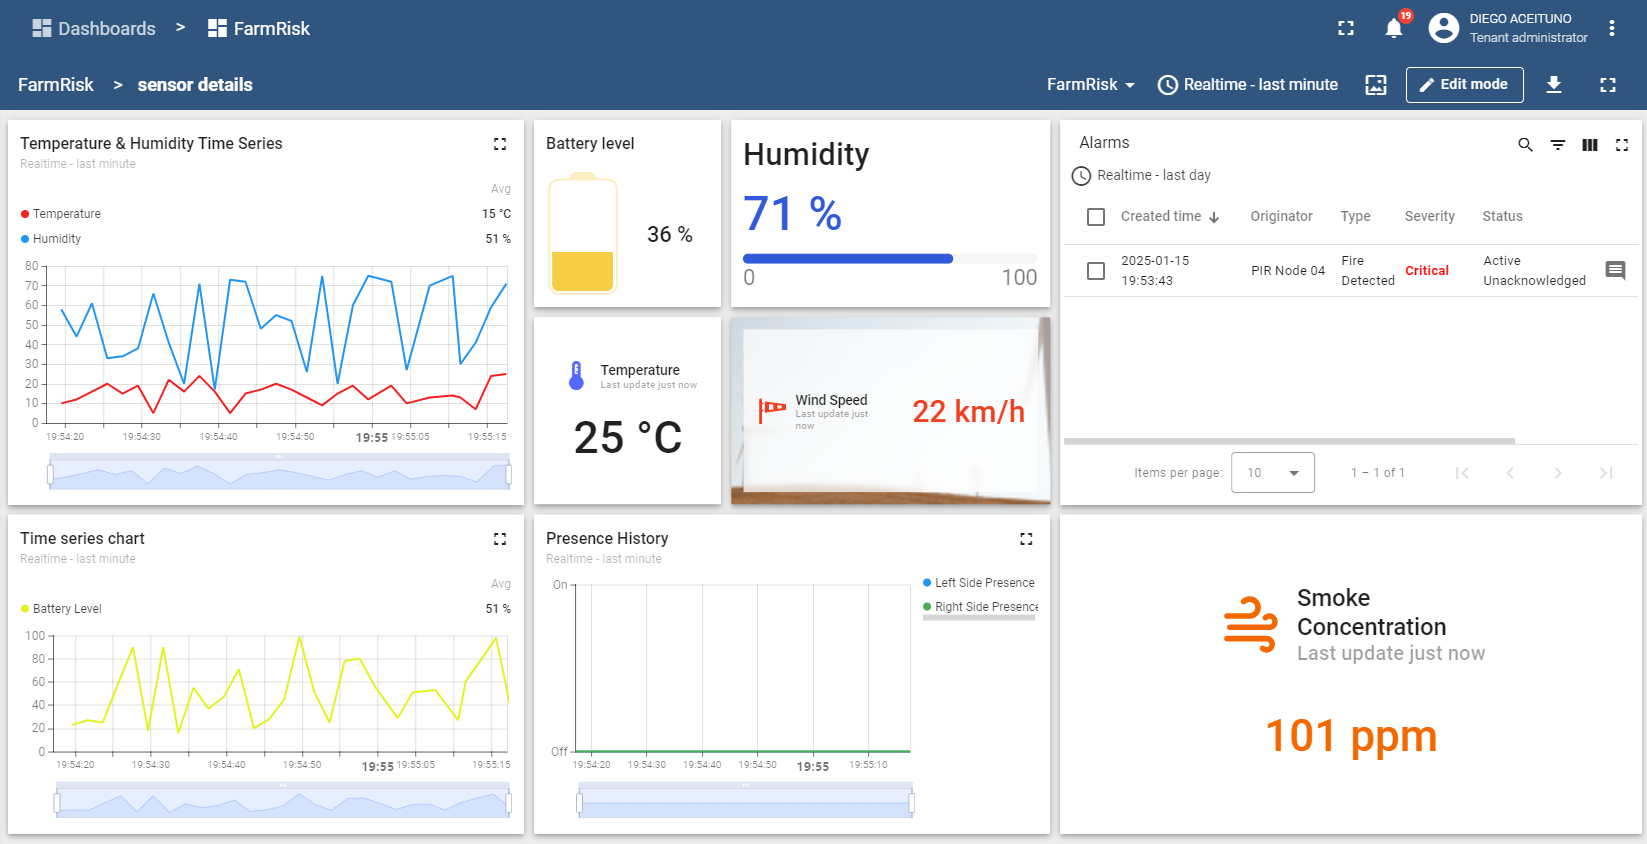
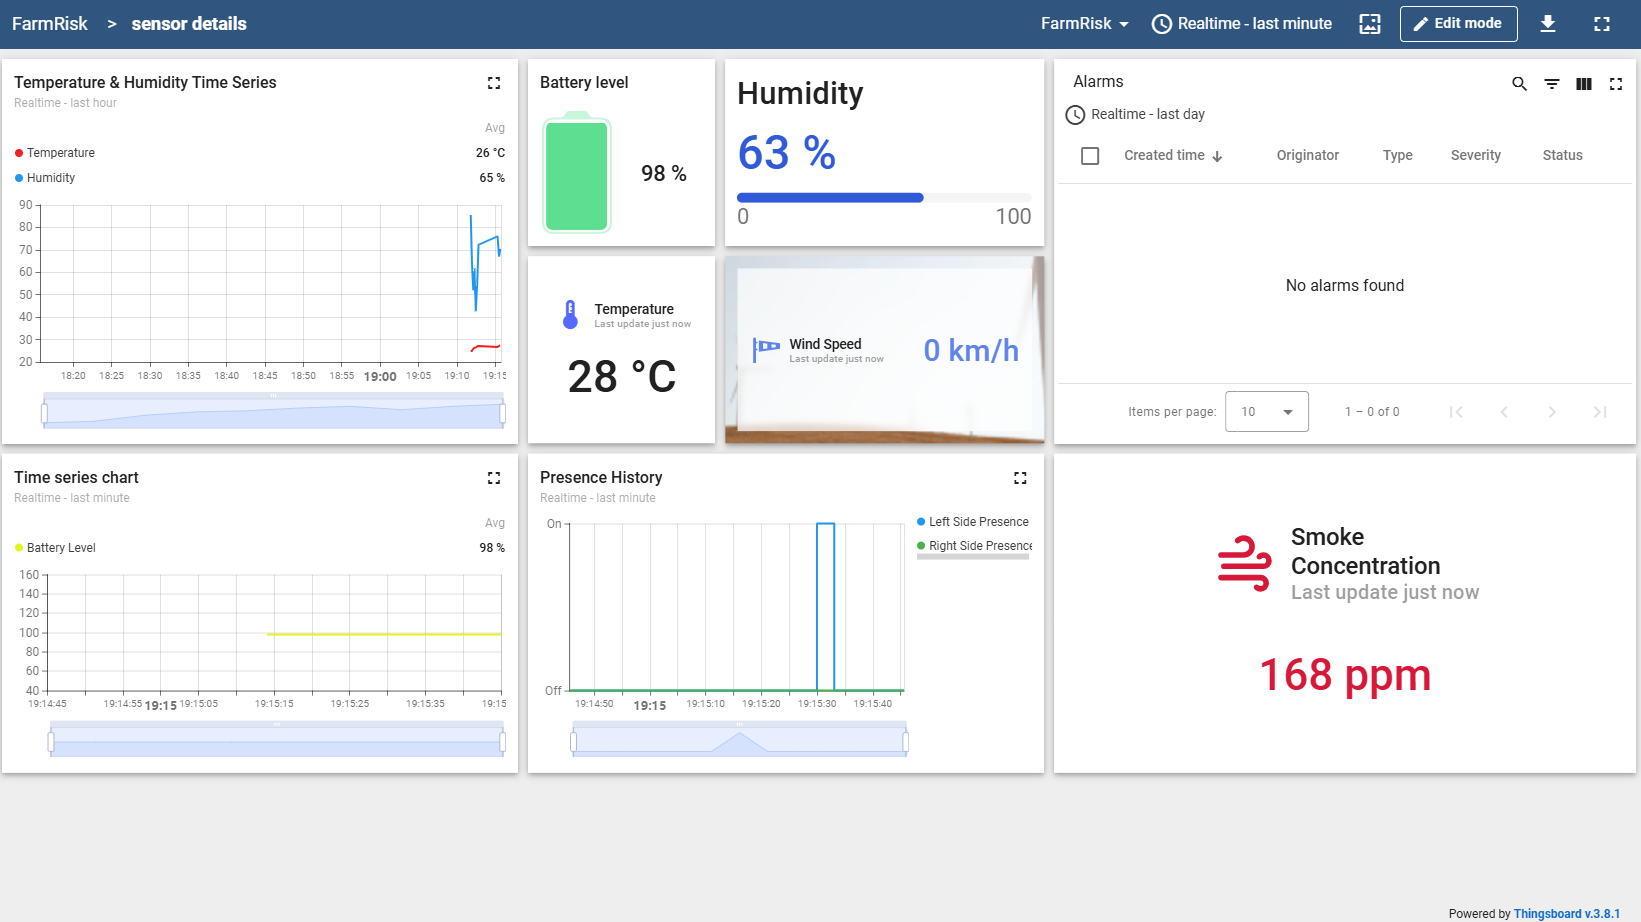
Dashboard updated and commanding done

diff --git a/includes/implementation.tex b/includes/implementation.tex
@@ -260,23 +260,74 @@ To represent all the information generated during the processing of the aggregat
 functionality from ThingsBoard was used. To implement the dashboard utilities like aliases and dashboard 
 states were used.
 
-The dashboard defined 2 views implemented with states:
+The dashboard has 2 views, which were implemented using ThingsBoard states:
 \begin{itemize}
     \item The map dashboard, that shows the status of the farm perimeter and the different PIR nodes. This map can also change colors in reaction 
     to some events, like presence detection or fire detection. This also affects the markers of the nodes. Finally, the nodes can be clicked to obtain 
     a summarized view of the state of the node and the latest telemetry. This view is presented in \autoref{fig:MapThingsboard}.
+
+    This  view also contains extra elements:
+    \begin{itemize}
+        \item A Alarm table in which the alarms related to the whole system are presented.
+        \item A set of buttons to command the start/stop of the sending mechanisms for the PIR nodes. This can be used in case a worker needs to clean the perimeter.
+    \end{itemize}
     \begin{figure}[H]
         \centering
         \includegraphics[width=1\textwidth]{./images/8/MapDashboard.png}
         \caption{Map dashboard implemented in Thingsboard}
         \label{fig:MapThingsboard}
     \end{figure}
+    \clearpage
     \item When any tooltip's "further details" is clicked, the dashboard changes to the sensor view of the sensor clicked. This dashboard 
     shows time series data and further details about the state of the sensor. This view is presented in \autoref{fig:NodeThingsboard}. 
+
+    In this case, this view will only show alarms related to the status of that specific device, like battery alarms or presence on only 1 side.
     \begin{figure}[H]
         \centering
         \includegraphics[width=1\textwidth]{./images/8/NodeDashboard.png}
         \caption{Node dashboard implemented in Thingsboard}
         \label{fig:NodeThingsboard}
     \end{figure}
+\end{itemize}
+
+\clearpage
+\subsection{Commanding the network}
+
+The possibility of network commanding is one of the key objectives of this project. This was implemented using the \acrfullr{rpc} capabilities of ThingsBoard. 
+In this case the implementation of \acrshort{rpc} is done by sending a JSON in a MQTT topic and waiting for a response in another topic.
+
+The commanding has two parts:
+\begin{itemize}
+    \item An automatic commanding which is used when an animal is presented by a node. When all the information is processed in the edge, a response is 
+    generated and the edge platform command the node to activate the smart speaker to scare the animal. The format of this \acrshort{rpc} is as follows:
+    \begin{figure}[H]
+        \centering
+        \includegraphics[width=0.6\textwidth]{./images/8/speaker.png}
+        \caption{Automatic speaker RPC}
+        \label{fig:speakerRPC}
+    \end{figure}
+    \item A manual commanding which is for turning off and on the sensing capabilities of the PIR nodes. This is implemented with two \acrshort{rpc}s, as the edge 
+    platform needs to know before hand the state in which the node it's configured. The calls can be seen in the next figures:
+
+    \begin{figure}[H]
+        \centering
+        \includegraphics[width=0.6\textwidth]{./images/8/getStateRPC.png}
+        \caption{GetState RPC}
+        \label{fig:getStateRPC}
+    \end{figure}
+
+    \begin{figure}[H]
+        \centering
+        \includegraphics[width=0.6\textwidth]{./images/8/getStateRPCResponse.png}
+        \caption{GetState RPC Response}
+        \label{fig:getStateRPCResponse}
+    \end{figure}
+
+    \begin{figure}[H]
+        \centering
+        \includegraphics[width=0.6\textwidth]{./images/8/setState.png}
+        \caption{SetState RPC}
+        \label{fig:setStateRPC}
+    \end{figure}
+
 \end{itemize}

diff --git a/glosary.tex b/glosary.tex
@@ -14,3 +14,4 @@
 \newacronym{lln}{LLN}{Low power lossy Networks}
 \newacronym{ppm}{PPM}{Parts Per Million}
 \newacronym{ble}{BLE}{Bluetooth Low Energy}
+\newacronym{rpc}{RPC}{Remote Procedure Call}
